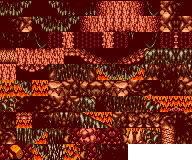
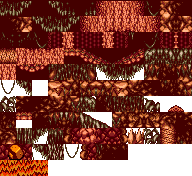
Multi layer tilemap

diff --git a/app/jni/src/tilemap.cpp b/app/jni/src/tilemap.cpp
@@ -14,56 +14,85 @@ void TA_Tilemap::load(std::string filename)
 
     width = xmlRoot->IntAttribute("width");
     height = xmlRoot->IntAttribute("height");
+    layerCount = xmlRoot->IntAttribute("nextlayerid") - 1;
     tileWidth = xmlRoot->FirstChildElement("tileset")->IntAttribute("tilewidth");
     tileHeight = xmlRoot->FirstChildElement("tileset")->IntAttribute("tileheight");
     int tileCount = xmlRoot->FirstChildElement("tileset")->IntAttribute("tilecount");
 
-    tilemap.resize(width);
-    for(int pos = 0; pos < width; pos ++) {
-        tilemap[pos].resize(height);
+    tilemap.resize(layerCount);
+    for(int layer = 0; layer < layerCount; layer ++) {
+        tilemap[layer].resize(width);
+        for(int pos = 0; pos < width; pos ++) {
+            tilemap[layer][pos].resize(height);
+        }
     }
     tileset.assign(tileCount, TA_Tile());
 
     for(int pos = 0; pos < tileCount; pos ++) {
-        tileset[pos].priority = 0;
         tileset[pos].animation = std::vector<int>{pos};
         tileset[pos].animationDelay = 1;
     }
 
-    std::string textureFilename = filename;
-    while(!textureFilename.empty() && textureFilename.back() != '/') {
-        textureFilename.pop_back();
-    }
-    textureFilename += xmlRoot->FirstChildElement("tileset")->FirstChildElement("image")->Attribute("source");
-    texture.load(textureFilename);
-
-    std::stringstream mapStream;
-    mapStream << xmlRoot->FirstChildElement("layer")->FirstChildElement("data")->GetText();
-
-    for(int tileY = 0; tileY < height; tileY ++ ) {
-        for(int tileX = 0; tileX < width; tileX ++) {
-            int tile;
-            char temp;
-            mapStream >> tile;
-            if(tileX != width - 1 || tileY != height - 1) {
-                mapStream >> temp;
-            }
-            tile --;
-            tilemap[tileX][tileY].tileIndex = tile;
-            tilemap[tileX][tileY].sprite.loadFromTexture(&texture, tileWidth, tileHeight);
-            tilemap[tileX][tileY].sprite.setPosition(tileX * tileWidth, tileY * tileHeight);
-            tilemap[tileX][tileY].sprite.setAnimation(tileset[tile].animation, tileset[tile].animationDelay, -1);
+    auto loadTileset = [&](tinyxml2::XMLElement *tilesetElement)
+    {
+        std::string textureFilename = filename;
+        while(!textureFilename.empty() && textureFilename.back() != '/') {
+            textureFilename.pop_back();
         }
+        textureFilename += tilesetElement->FirstChildElement("image")->Attribute("source");
+        texture.load(textureFilename);
+
+        for(tinyxml2::XMLElement *tileElement = tilesetElement->FirstChildElement("tile");
+            tileElement != nullptr; tileElement = tileElement->NextSiblingElement("tile"))
+        {
+            int tileId = tileElement->IntAttribute("id");
+            if(tileElement->FirstChildElement("animation") != nullptr) {
+                tileset[tileId].animation.clear();
+                int delayMs = tileElement->FirstChildElement("animation")->FirstChildElement("frame")->IntAttribute("duration");
+                tileset[tileId].animationDelay = int(delayMs * 60 / 1000 + 0.5);
+                for(tinyxml2::XMLElement *frameElement = tileElement->FirstChildElement("animation")->FirstChildElement("frame");
+                    frameElement != nullptr; frameElement = frameElement->NextSiblingElement("frame")) {
+                    tileset[tileId].animation.push_back(frameElement->IntAttribute("tileid"));
+                }
+            }
+        }
+    };
+
+    auto loadLayer = [&](tinyxml2::XMLElement *layerElement)
+    {
+        int layer = layerCount - layerElement->IntAttribute("id");
+        std::stringstream mapStream;
+        mapStream << layerElement->FirstChildElement("data")->GetText();
+        for(int tileY = 0; tileY < height; tileY ++ ) {
+            for(int tileX = 0; tileX < width; tileX ++) {
+                int tile;
+                char temp;
+                mapStream >> tile;
+                if(tileX != width - 1 || tileY != height - 1) {
+                    mapStream >> temp;
+                }
+                tile --;
+                tilemap[layer][tileX][tileY].tileIndex = tile;
+                tilemap[layer][tileX][tileY].sprite.loadFromTexture(&texture, tileWidth, tileHeight);
+                tilemap[layer][tileX][tileY].sprite.setPosition(tileX * tileWidth, tileY * tileHeight);
+                tilemap[layer][tileX][tileY].sprite.setAnimation(tileset[tile].animation, tileset[tile].animationDelay, -1);
+            }
+        }
+    };
+
+    loadTileset(xmlRoot->FirstChildElement("tileset"));
+    tinyxml2::XMLElement *layerElement = xmlRoot->FirstChildElement("layer");
+    for(int layer = 0; layer < layerCount; layer ++) {
+        loadLayer(layerElement);
+        layerElement = layerElement->NextSiblingElement("layer");
     }
 }
 
-void TA_Tilemap::draw(int priority)
+void TA_Tilemap::draw(int layer)
 {
     for(int tileX = 0; tileX < width; tileX ++) {
         for(int tileY = 0; tileY < height; tileY ++) {
-            if(tileset[tilemap[tileX][tileY].tileIndex].priority == priority) {
-                tilemap[tileX][tileY].sprite.draw();
-            }
+            tilemap[layer][tileX][tileY].sprite.draw();
         }
     }
 }
@@ -71,9 +100,11 @@ void TA_Tilemap::draw(int priority)
 void TA_Tilemap::setCamera(TA_Camera *newCamera)
 {
     newCamera->setBorder({TA_Point(0, 0), TA_Point(width * tileWidth - gScreenWidth, height * tileHeight - gScreenHeight)});
-    for(int tileX = 0; tileX < width; tileX ++) {
-        for(int tileY = 0; tileY < height; tileY ++) {
-            tilemap[tileX][tileY].sprite.setCamera(newCamera);
+    for(int layer = 0; layer < layerCount; layer ++) {
+        for(int tileX = 0; tileX < width; tileX ++) {
+            for(int tileY = 0; tileY < height; tileY ++) {
+                tilemap[layer][tileX][tileY].sprite.setCamera(newCamera);
+            }
         }
     }
 }

diff --git a/app/jni/src/tilemap.h b/app/jni/src/tilemap.h
@@ -10,7 +10,7 @@ class TA_Tilemap {
 private:
     struct TA_Tile {
         std::vector<int> animation;
-        int priority, animationDelay;
+        int animationDelay;
     };
 
     struct TA_TilemapElement {
@@ -18,10 +18,10 @@ private:
         int tileIndex;
     };
 
-    std::vector<std::vector<TA_TilemapElement>> tilemap;
+    std::vector<std::vector<std::vector<TA_TilemapElement>>> tilemap;
     std::vector<TA_Tile> tileset;
     TA_Texture texture;
-    int width, height, tileWidth, tileHeight;
+    int width, height, tileWidth, tileHeight, layerCount;
 
 public:
     void load(std::string filename);

diff --git a/app/jni/src/game_screen.cpp b/app/jni/src/game_screen.cpp
@@ -34,6 +34,7 @@ TA_ScreenState TA_GameScreen::update()
     camera.update();
 
     tilemap.draw(0);
+    tilemap.draw(1);
     characterController.draw();
 
     return TA_SCREENSTATE_CURRENT;
